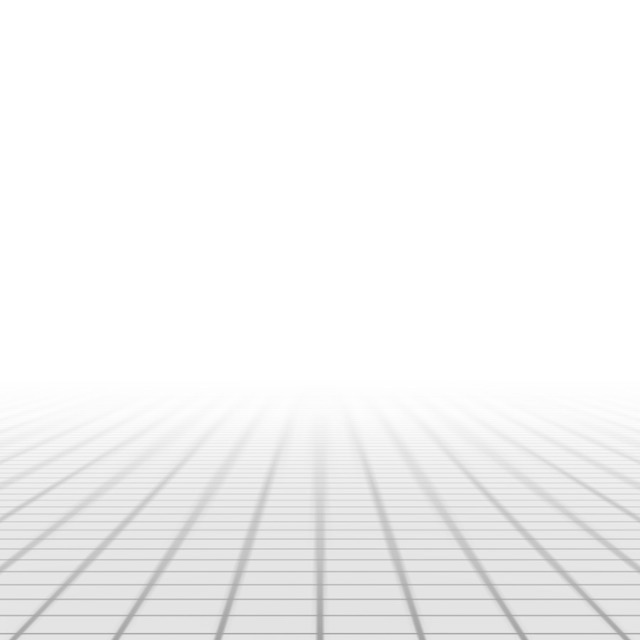
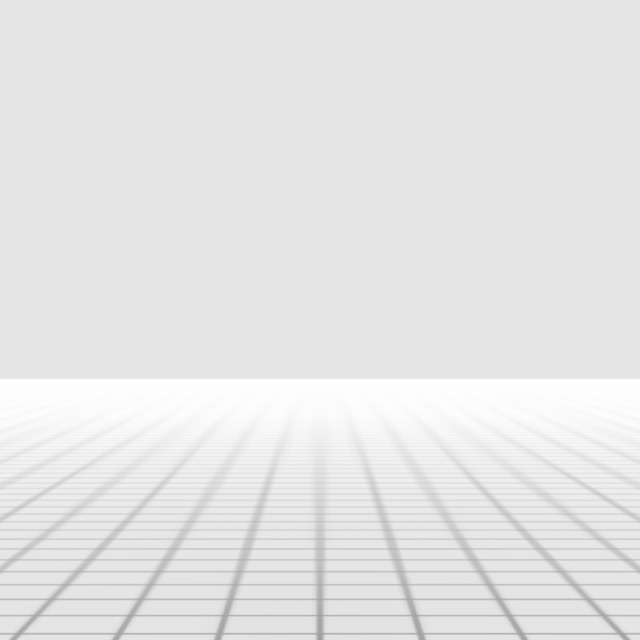
Shot Generator: default background color is #E5E5E5
- shows up as "Bg Color: 0.90" in the user interface
- update placeholder images

diff --git a/src/js/shared/reducers/shot-generator.js b/src/js/shared/reducers/shot-generator.js
@@ -362,7 +362,7 @@ const defaultCharacterPreset = {
 const defaultScenePreset = {
   world: {
     ground: false,
-    backgroundColor: 0xFFFFFF,
+    backgroundColor: 0xE5E5E5,
     room: {
       visible: true,
       width: 10,
@@ -485,7 +485,7 @@ const defaultScenePreset = {
 const initialScene = {
   world: {
     ground: true,
-    backgroundColor: 0xFFFFFF,
+    backgroundColor: 0xE5E5E5,
     room: {
       visible: false,
       width: 10,
